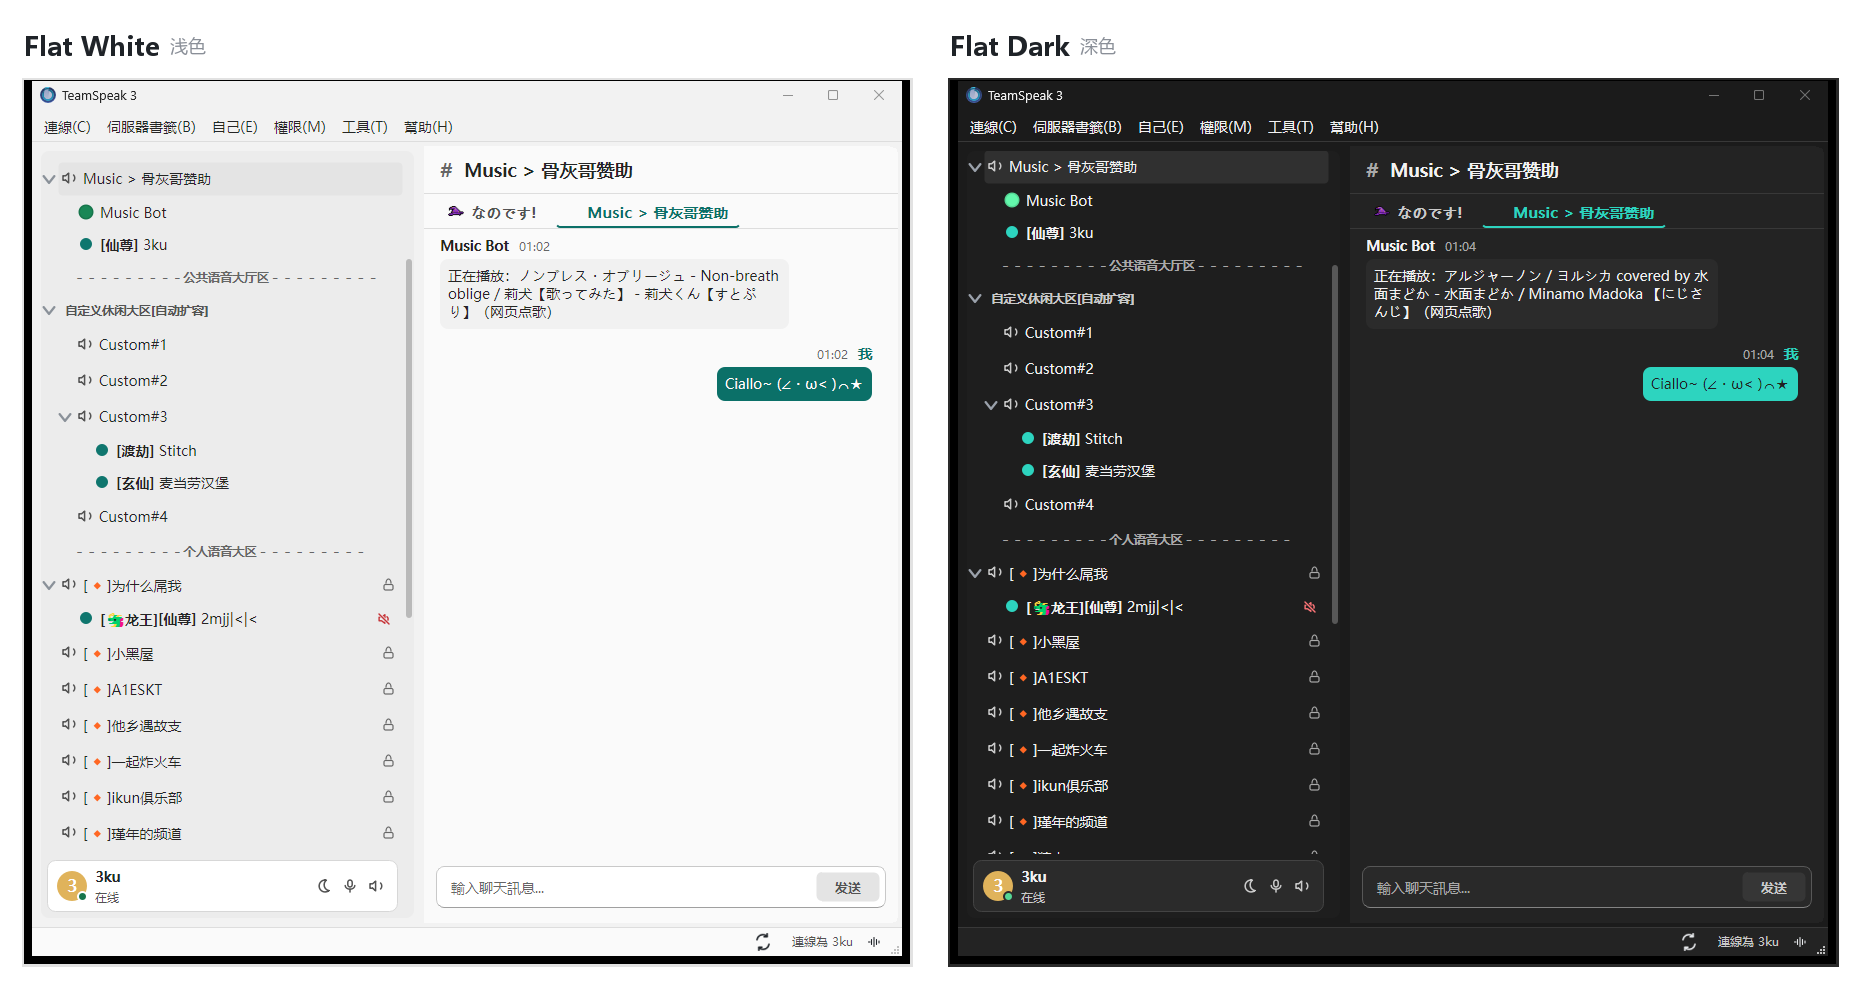
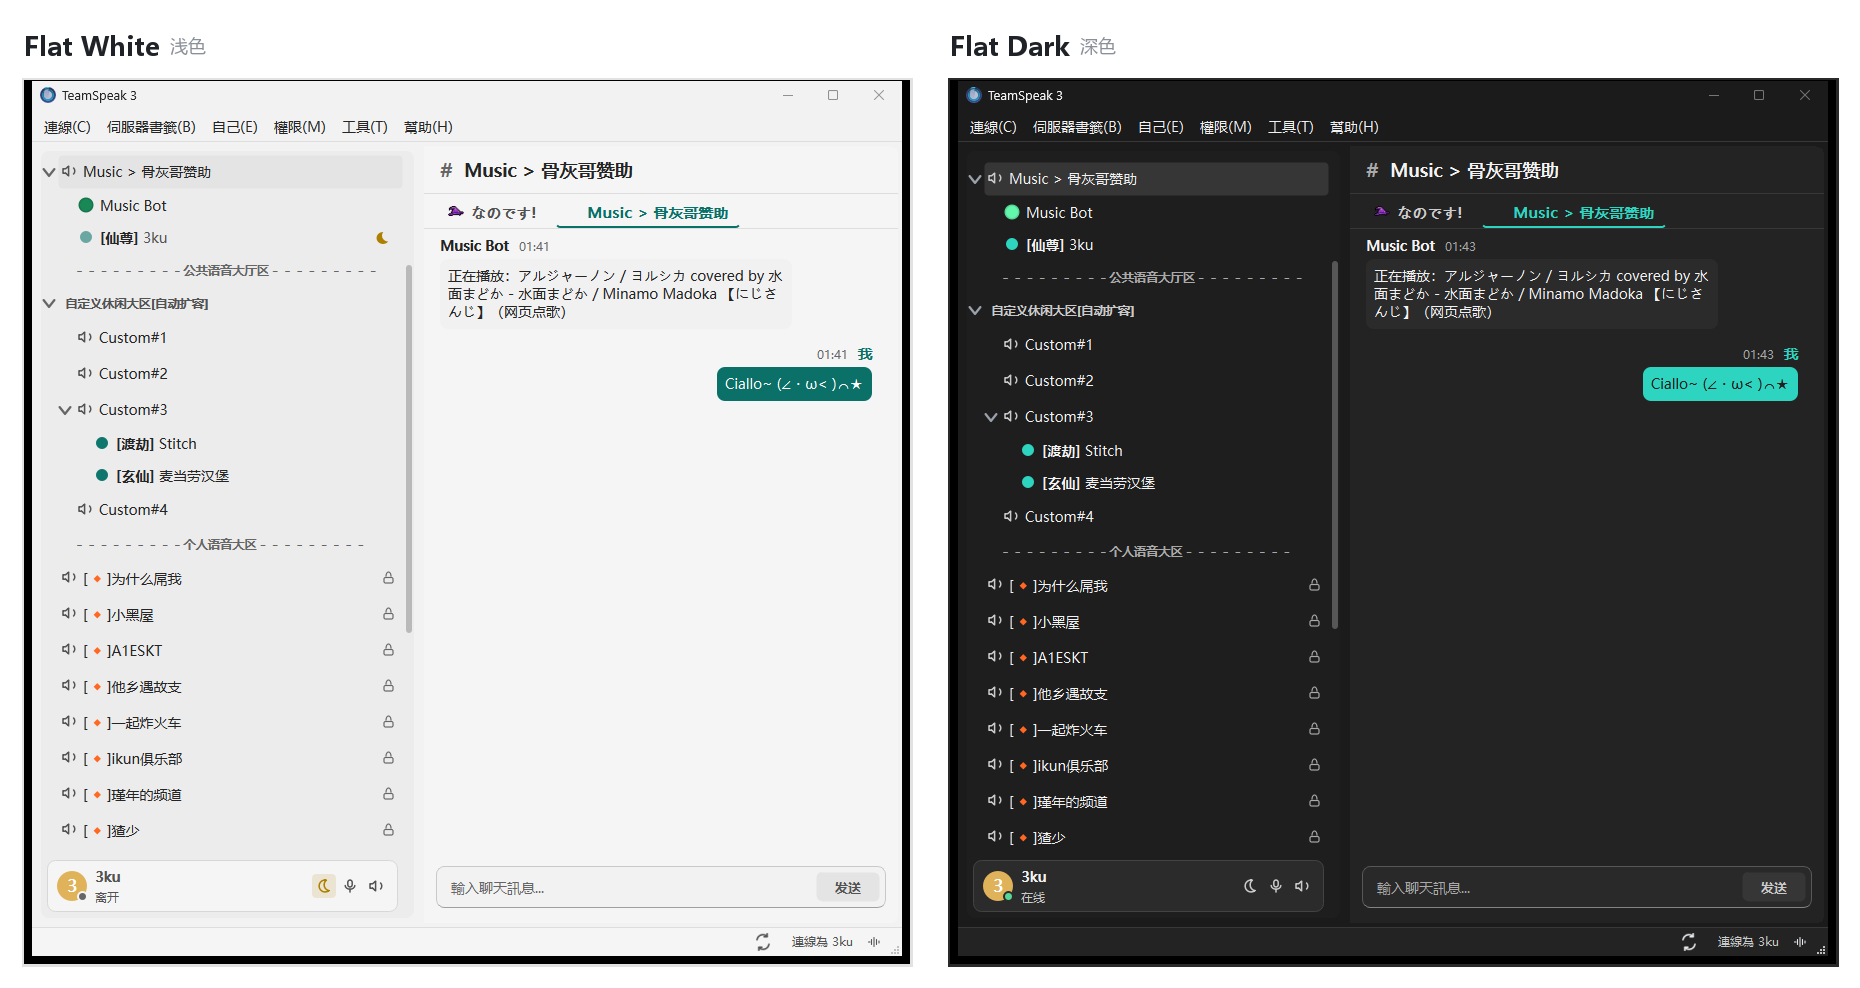
fix(ui): 拆出离开状态的琥珀色令牌
浅色模式下离开月牙与警告色共用的状态色偏暗，单列 statusAway 令牌取值 #AD8000，
浅色成员行和资料页的离开标记改用该值；深色维持原样。
预览图同步换成当前浅深对照。

diff --git a/plugin/src/channelpanel.h b/plugin/src/channelpanel.h
@@ -54,7 +54,7 @@ inline QColor green() { return color(foundation::Color::statusSuccess); }
 inline QColor divider() { return color(foundation::Color::strokeDivider); }
 inline QColor accent() { return color(foundation::Color::accent); }
 inline QColor danger() { return color(foundation::Color::statusDanger); }
-inline QColor awayColor() { return color(foundation::Color::statusWarning); }
+inline QColor awayColor() { return color(foundation::Color::statusAway); }
 inline QColor card() { return color(foundation::Color::bgOverlay); }
 inline QColor cardEdge() { return color(foundation::Color::strokeOverlay); }
 inline QColor bubbleOther() { return color(foundation::Color::bgBubbleOther); }

diff --git a/plugin/src/foundation_tokens.h b/plugin/src/foundation_tokens.h
@@ -41,6 +41,7 @@ enum class Color {
     statusSuccess,
     statusDanger,
     statusWarning,
+    statusAway,
     textDanger,
     textWarning,
     fillDanger,
@@ -89,6 +90,7 @@ inline constexpr QRgb colors[][2] = {
     {0x16754B, 0x55D795},  // statusSuccess
     {0xB4232C, 0xFF8589},  // statusDanger
     {0x8E5A00, 0xF4C360},  // statusWarning
+    {0xAD8000, 0xF4C360},  // statusAway
     {0xB4232C, 0xFF8589},  // textDanger
     {0x8E5A00, 0xF4C360},  // textWarning
     {0xB4232C, 0x8C2830},  // fillDanger
